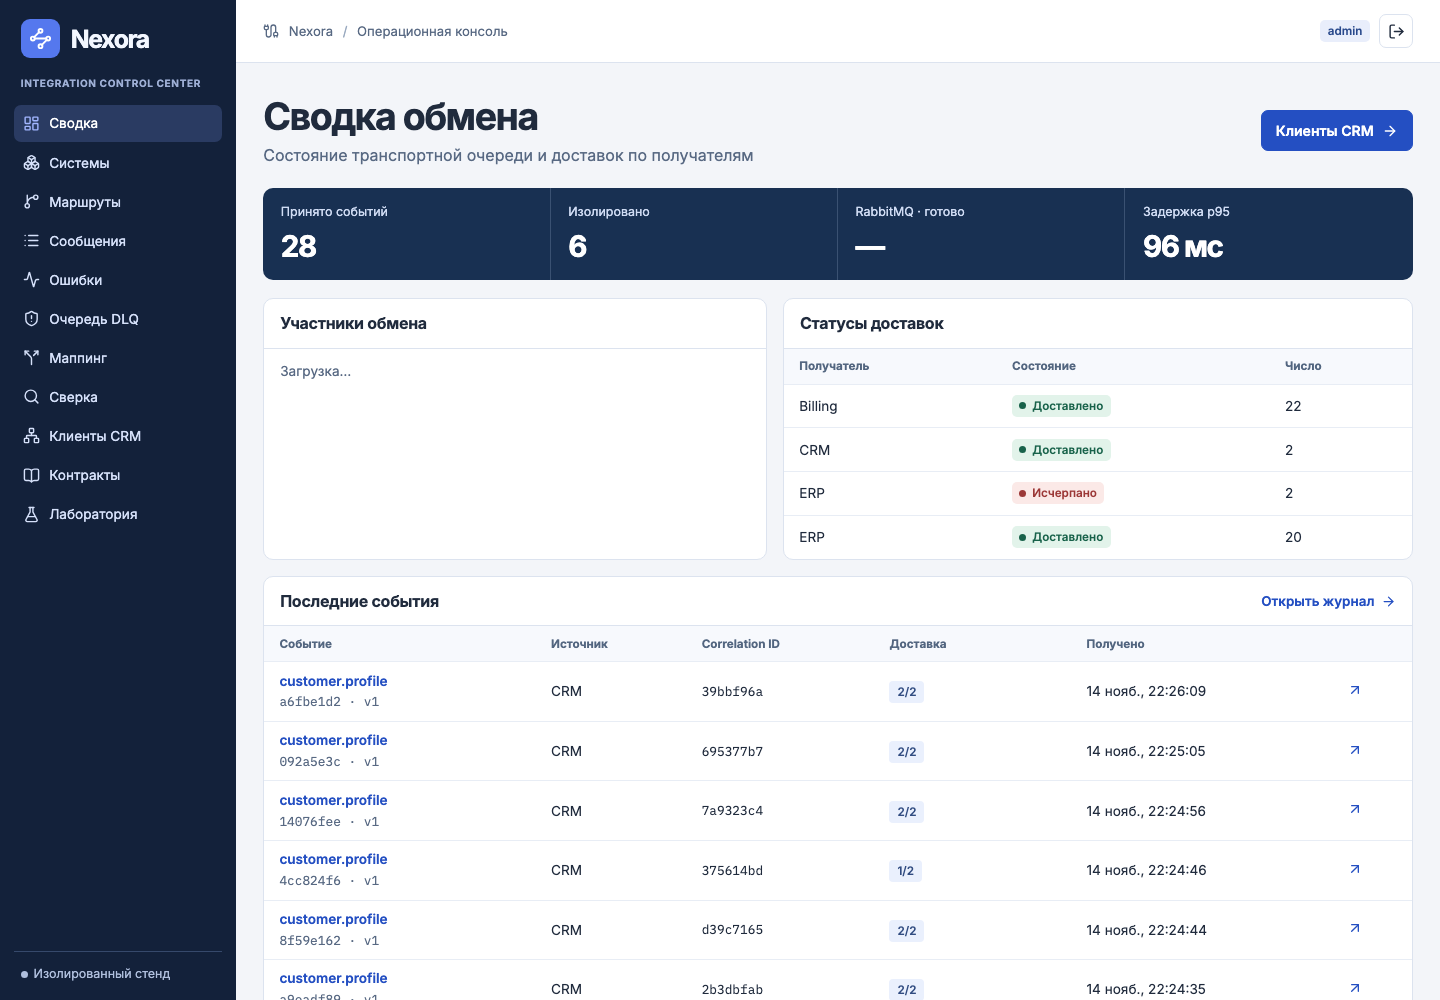
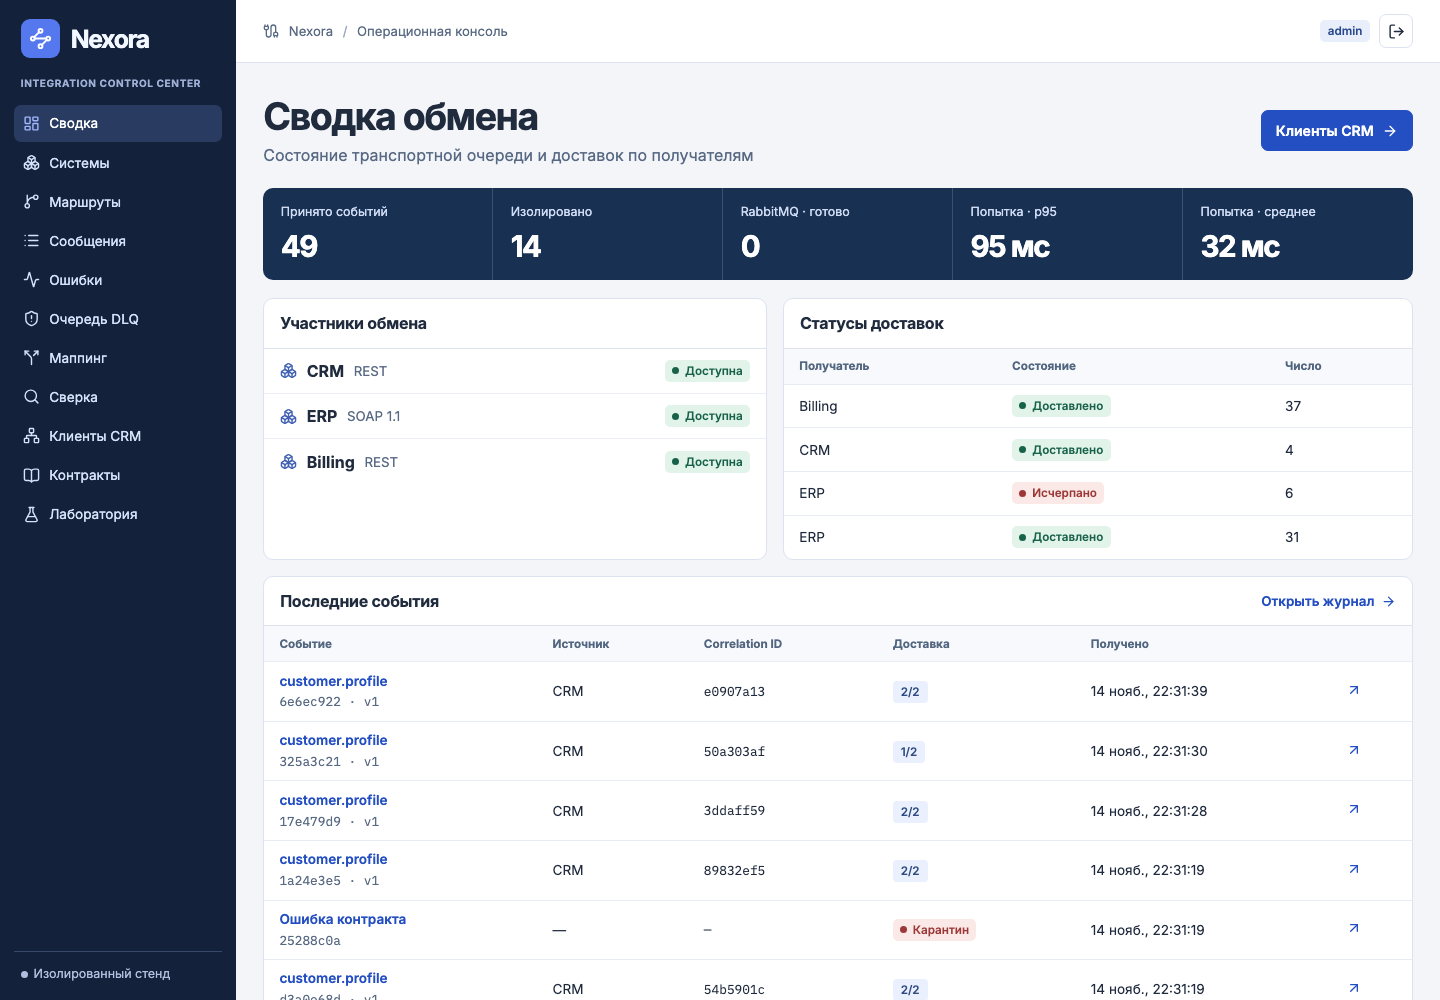
fix: gate reconciliation repair and report target availability

diff --git a/frontend/src/main.tsx b/frontend/src/main.tsx
@@ -229,7 +229,8 @@ function Dashboard() {
           ["Принято событий", d?.events],
           ["Изолировано", d && d.rejected + (failed ?? 0)],
           ["RabbitMQ · готово", broker.data?.ready],
-          ["Задержка p95", d?.p95_ms == null ? null : d.p95_ms + " мс"],
+          ["Попытка · p95", d?.p95_ms == null ? null : d.p95_ms + " мс"],
+          ["Попытка · среднее", d?.mean_ms == null ? null : d.mean_ms + " мс"],
         ].map(([label, value]) => (
           <div key={label}>
             <span>{label}</span>
@@ -249,7 +250,7 @@ function Dashboard() {
                 </span>
                 <Badge status={s.reachable ? "UP" : "DOWN"} />
               </div>
-            )) ?? <Empty pending />}
+            )) ?? <Empty pending={systems.isPending} />}
           </div>
         </Panel>
         <Panel title="Статусы доставок">

diff --git a/frontend/src/api.ts b/frontend/src/api.ts
@@ -99,6 +99,10 @@ const errors: Record<string, string> = {
   SOURCE_UNAVAILABLE: "Источник временно недоступен.",
   BROKER_UNAVAILABLE: "RabbitMQ временно недоступен.",
   MESSAGE_MISSING: "Событие ещё не получено или отсутствует.",
+  NO_REPAIRABLE_DRIFT:
+    "Повторите сверку: расхождение уже устранено или требует ручного разбора.",
+  AUTHORITATIVE_PROFILE_UNAVAILABLE:
+    "Профиль CRM недоступен для восстановления.",
   VERSION_CONFLICT: "Конфликт данных одной версии.",
 };
 export async function api<T>(

diff --git a/frontend/e2e/console.spec.ts b/frontend/e2e/console.spec.ts
@@ -59,6 +59,17 @@ test("lab submits a real invalid event and shows quarantine", async ({
     .getByRole("button", { name: "Отправить неверный контракт" })
     .click();
   await expect(page.getByText(/"published": "invalid"/)).toBeVisible();
+  await expect
+    .poll(async () => {
+      const current: { event_id: string; code: string }[] = await (
+        await page.request.get("/api/errors?dead_only=true", { headers })
+      ).json();
+      return current.some(
+        (row) =>
+          !previousIds.has(row.event_id) && row.code === "INVALID_CONTRACT",
+      );
+    })
+    .toBe(true);
   await expect(page.getByText("INVALID_CONTRACT").first()).toBeVisible();
 });
 

diff --git a/frontend/src/ui.tsx b/frontend/src/ui.tsx
@@ -4,6 +4,8 @@ import { ArrowUpRight, AlertCircle } from "lucide-react";
 import { short, stamp, type EventRow } from "./api";
 
 export const titleState: Record<string, string> = {
+  UP: "Доступна",
+  DOWN: "Недоступна",
   PENDING: "В очереди",
   RETRY: "Ожидает повтора",
   SUCCEEDED: "Доставлено",

diff --git a/frontend/src/styles.css b/frontend/src/styles.css
@@ -231,7 +231,7 @@ pre {
 }
 .metrics {
   display: grid;
-  grid-template-columns: repeat(4, minmax(0, 1fr));
+  grid-template-columns: repeat(5, minmax(0, 1fr));
   border-radius: 10px;
   background: #183052;
   color: white;

diff --git a/scripts/resilience.py b/scripts/resilience.py
@@ -11,6 +11,9 @@ def availability(target, unavailable):
 def outages_and_replay():
     availability("ERP", True)
     try:
+        assert not next(s for s in call("GET", "/systems") if s["name"] == "ERP")[
+            "reachable"
+        ]
         created = profile("ERP recovery")
         event = created["event_id"]
         customer = created["record"]["id"]
@@ -81,6 +84,7 @@ def repair_projection():
     repair = call("POST", f"/reconciliation/{customer}/repair", 202)
     completed(repair["event_id"], {"ERP": "SUCCEEDED", "Billing": "SUCCEEDED"})
     assert call("GET", f"/reconciliation/{customer}")["issues"] == []
+    call("POST", f"/reconciliation/{customer}/repair", 409)
 
 
 def security_checks():
@@ -104,6 +108,8 @@ def security_checks():
 if __name__ == "__main__":
     from integration_smoke import test_route
 
+    availability("ERP", False)
+    availability("Billing", False)
     security_checks()
     quarantine_dedupe_stale(test_route())
     outages_and_replay()

diff --git a/nexora/operations.py b/nexora/operations.py
@@ -80,6 +80,14 @@ def target_result(response):
 
 
 def repair(customer, role):
+    comparison = reconcile(customer)
+    if comparison["records"]["CRM"] is None:
+        raise HTTPException(409, "AUTHORITATIVE_PROFILE_UNAVAILABLE")
+    if not any(
+        issue["target"] in FIELDS and issue["code"] in {"MISSING", "VERSION_LAG"}
+        for issue in comparison["issues"]
+    ):
+        raise HTTPException(409, "NO_REPAIRABLE_DRIFT")
     correlation = uuid4()
     result = target_result(
         request(

diff --git a/nexora/projections.py b/nexora/projections.py
@@ -1,4 +1,3 @@
-import json
 from uuid import UUID
 
 from fastapi import HTTPException
@@ -145,11 +144,3 @@ def read_projection(conn, table: str, identifier: UUID):
     if record is None:
         raise HTTPException(404, "RECORD_MISSING")
     return record
-
-
-def synthetic_outbox(conn, payload):
-    run(
-        conn,
-        "INSERT INTO outbox(id,payload) VALUES (gen_random_uuid(),CAST(:raw AS jsonb))",
-        raw=json.dumps(payload),
-    )

diff --git a/nexora/api.py b/nexora/api.py
@@ -45,7 +45,9 @@ def systems(role: Read):
     result = []
     for target, address in ADDRESSES.items():
         try:
-            alive = request(target, "GET", "/health").is_success
+            alive = request(
+                target, "GET", "/health" if target == "CRM" else "/ready"
+            ).is_success
         except httpx.TransportError:
             alive = False
         result.append(

diff --git a/nexora/worker.py b/nexora/worker.py
@@ -45,7 +45,7 @@ def parse_message(raw: bytes):
     except ValidationError:
         # Keep validation metadata without retaining arbitrary untrusted values.
         return uuid4(), digest, {"bytes": len(raw)}, None, "INVALID_CONTRACT"
-    return event.id, digest, payload, event, None
+    return event.id, digest, event.model_dump(mode="json"), event, None
 
 
 def ingest(raw: bytes):

diff --git a/nexora/source.py b/nexora/source.py
@@ -28,6 +28,12 @@ class Switch(Strict):
 
 
 def install_fault_control(app):
+    @app.get("/ready")
+    def ready():
+        with engine().connect() as conn:
+            check_availability(conn)
+        return {"status": "ok"}
+
     @app.put("/v1/lab/availability", dependencies=[Depends(internal)])
     def control(payload: Switch):
         if os.getenv("LAB_MODE") != "1":

diff --git a/docs/testing/results.md b/docs/testing/results.md
@@ -36,3 +36,5 @@ npm run test:e2e
 ```
 
 [GitHub Actions status](https://github.com/bivaettttt/nexora/actions)
+
+The AsyncAPI CLI validated the AMQP document. It reported advisory metadata warnings for the contact and license fields. Payload examples are also checked against the runtime event models in pytest.
